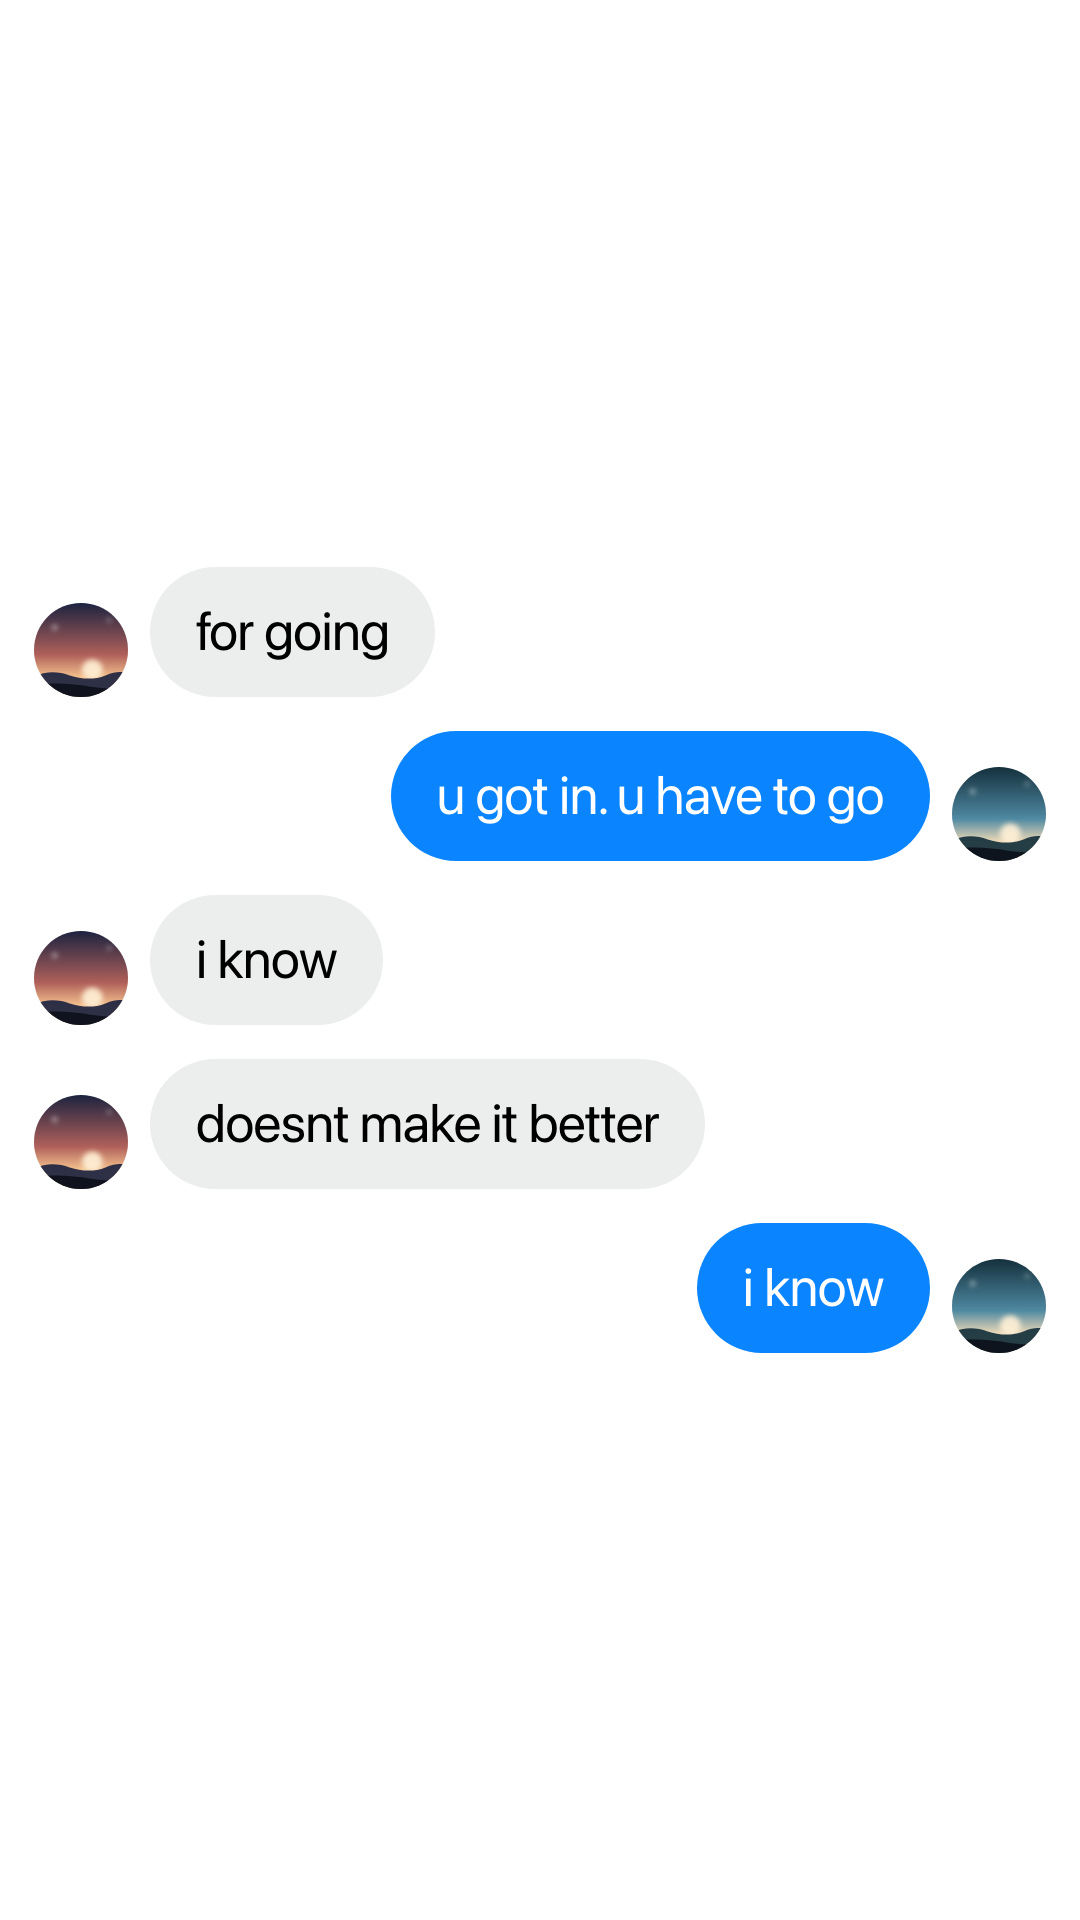
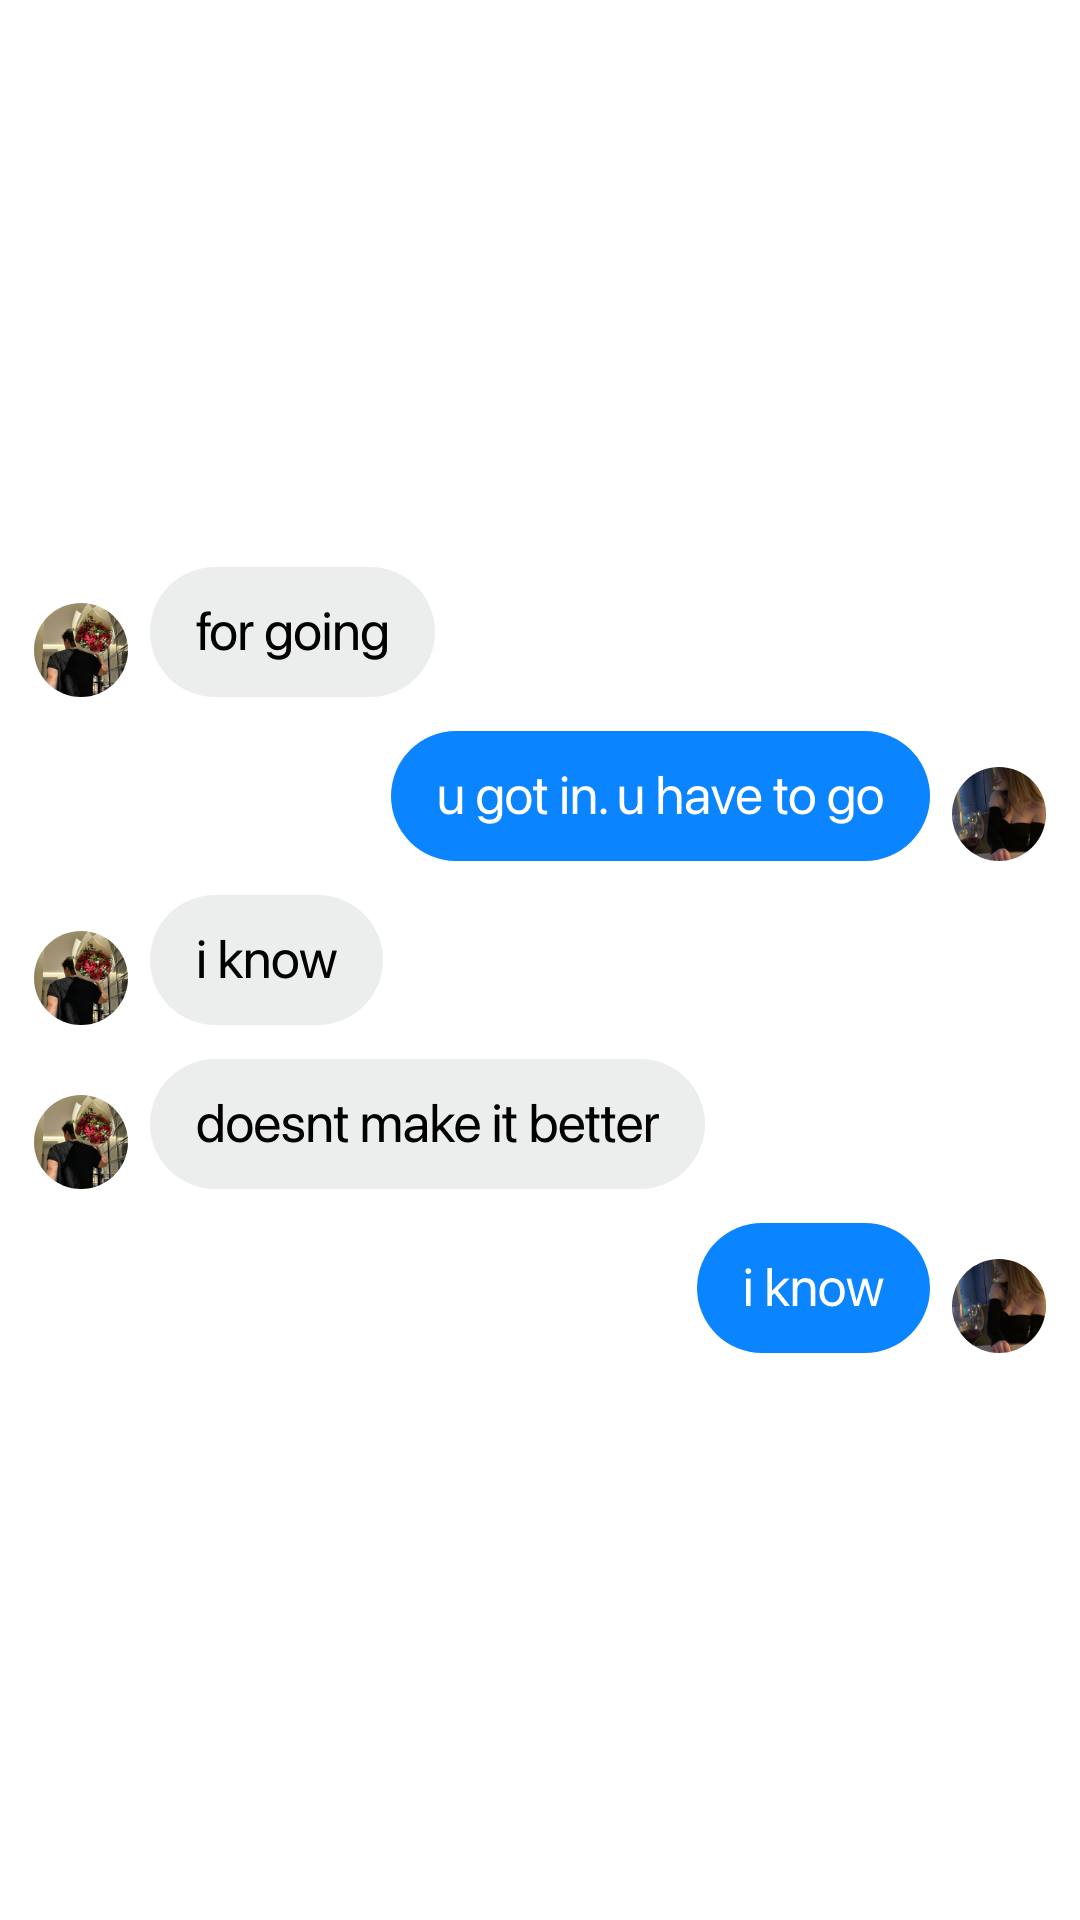
feat(marketing): 98 has its real faces
Both photos are in the circles: hers on the blue side, his on the grey. They
went in with --top, because the recognisable part of each picture is at the top
of the frame — the bouquet, her hair — and the default attention crop had taken
his back and her wine glass, which at circle size is a dark smudge either way.

Also fixes the argument filter in tiktok-faces: with no --clip flag the index
check excluded argument zero, so the carousel number was read as the first
photo and it tried to mkdir a jpg. And the script now takes an image straight
off the clipboard (--clip her|him|cover) for the common case where the picture
only ever existed in a chat, and lists the pictures it can actually see in
Downloads and Desktop when a path is wrong.

diff --git a/docs/marketing/tiktok-98/SCRIPT.md b/docs/marketing/tiktok-98/SCRIPT.md
@@ -14,6 +14,10 @@ node ~/Documents/mail/ethoslove/scripts/tiktok-faces.mjs 98 ~/Downloads/her.jpg 
 
 It runs from any folder — the full path to the script is what matters, not where the terminal is.
 
+**The faces in this one were installed with `--top`**, because the interesting part of both photos is
+at the top of the frame: his bouquet and her hair. The default crop keeps the busiest region, which on
+those two pictures was his back and her wine glass.
+
 It squares the two faces for the circles, crops the cover to 1080×1920, drops all three into this
 folder and re-renders every slide. The circles are round, so a portrait has to be squared or it keeps
 whatever is in the middle of the frame — a chest, a bouquet — instead of the face. It picks the
